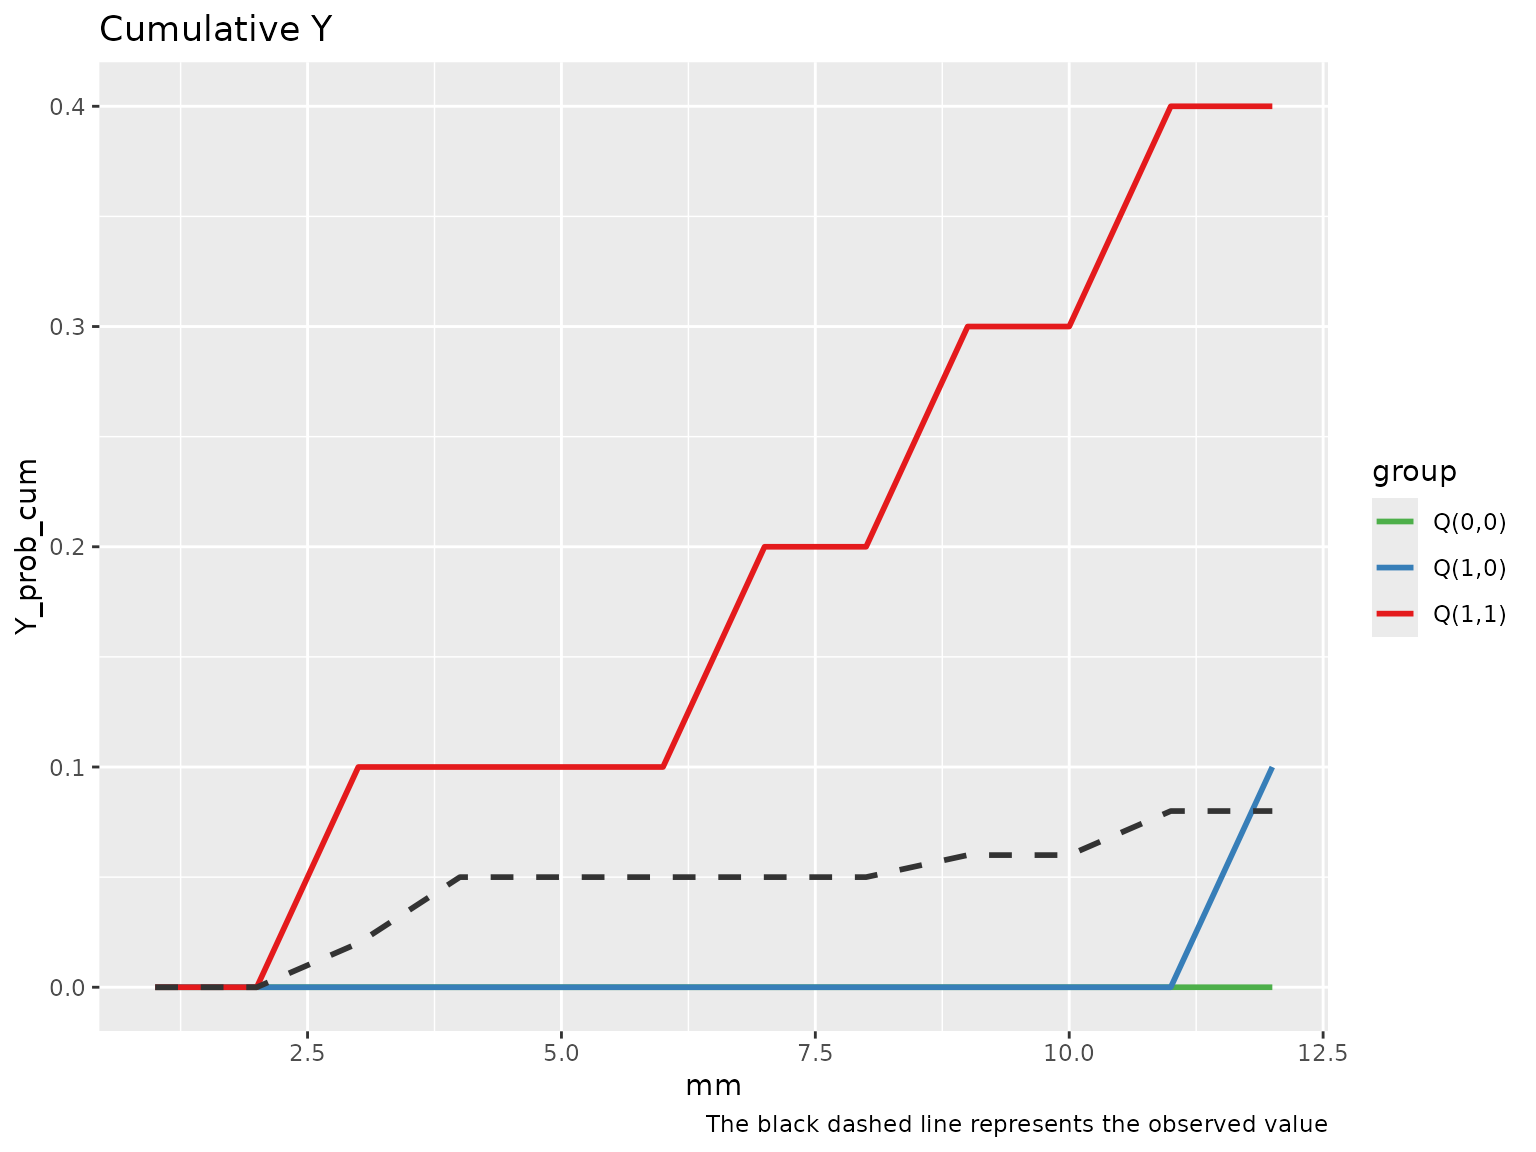
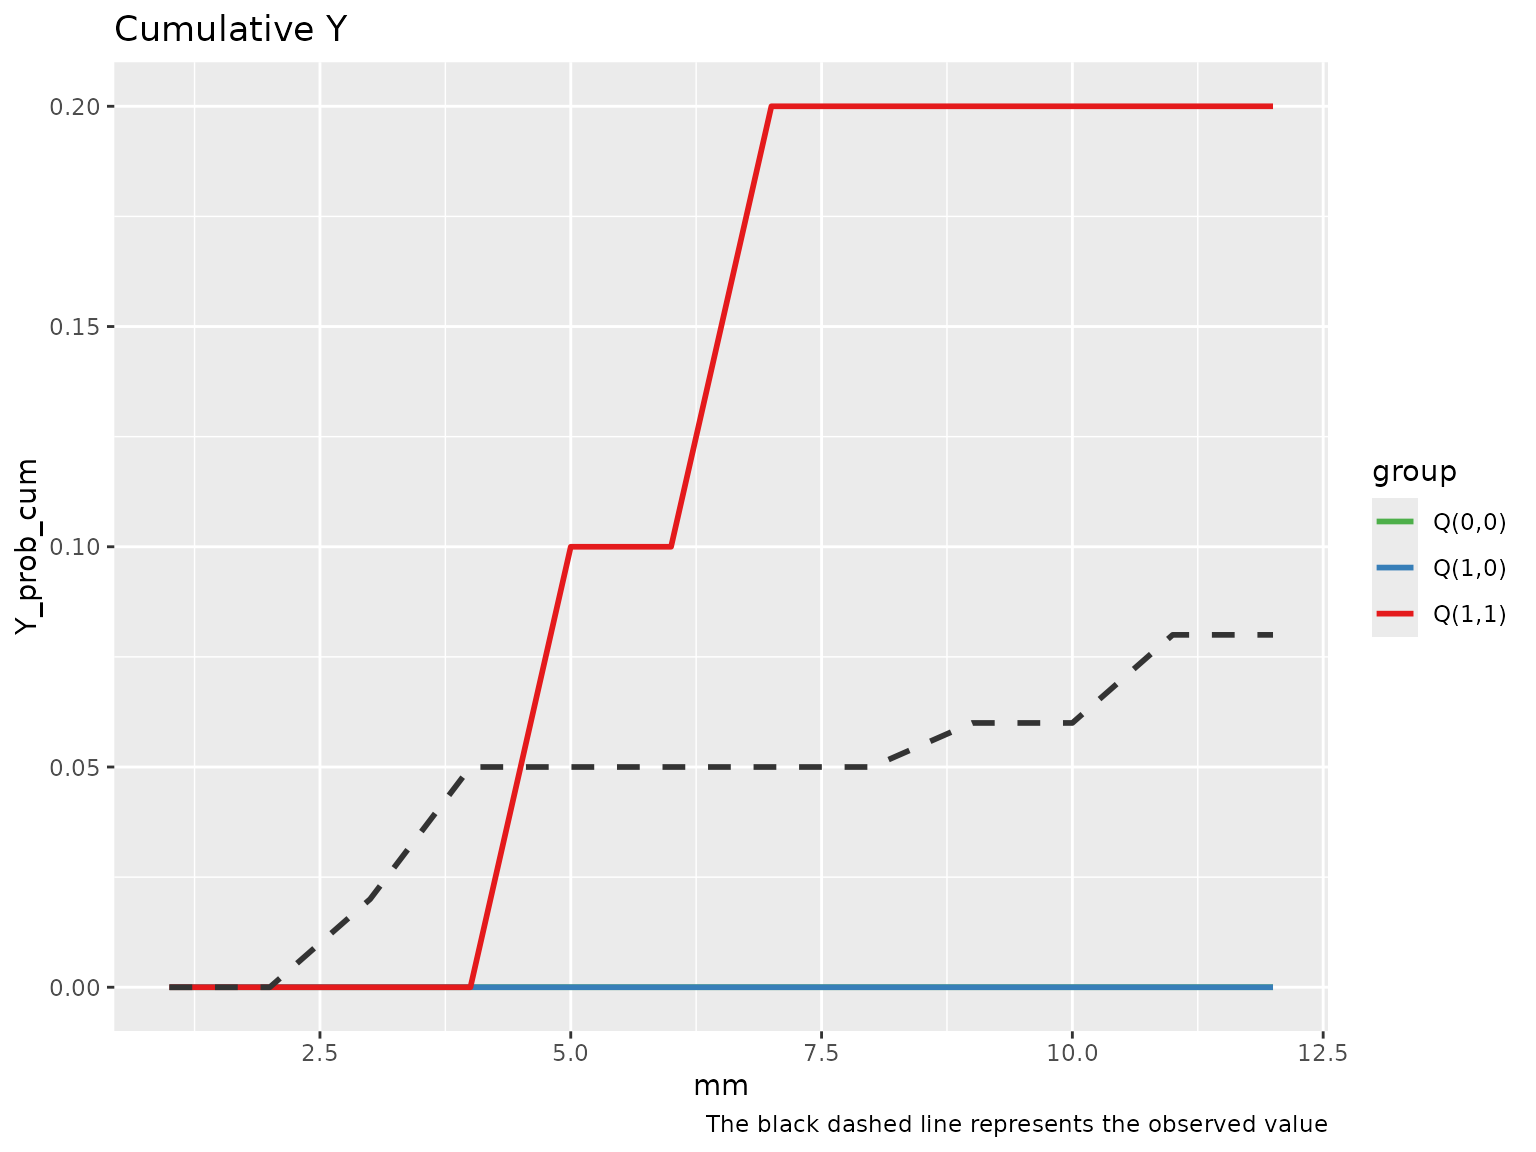
Deploying to gh-pages from @ causalepi/tvmedg@eef8c448e5479c6e9bfaff9183ada4b78893cecb 🚀

diff --git a/articles/single_mediator.html b/articles/single_mediator.html
@@ -166,14 +166,14 @@ using 1000 Monte Carlo samples.</p>
 <span>                   montecarlo <span class="op">=</span> <span class="fl">10</span>,</span>
 <span>                   boot <span class="op">=</span> <span class="cn">F</span>,</span>
 <span>                   parallel <span class="op">=</span> <span class="cn">TRUE</span><span class="op">)</span></span>
-<span><span class="co">#&gt; Q(a,a): 0.4 </span></span>
-<span><span class="co">#&gt; Q(a,a*): 0.1 </span></span>
+<span><span class="co">#&gt; Q(a,a): 0.2 </span></span>
+<span><span class="co">#&gt; Q(a,a*): 0 </span></span>
 <span><span class="co">#&gt; Q(a*,a*): 0 </span></span>
-<span><span class="co">#&gt; Indirect (rIE): 0.3 </span></span>
-<span><span class="co">#&gt; Direct (rDE): 0.1 </span></span>
-<span><span class="co">#&gt; Total (rTE): 0.4 </span></span>
-<span><span class="co">#&gt; Proportional explain: 0.75 </span></span>
-<span><span class="co">#&gt; Total time elapsed: 5.035767 secs</span></span>
+<span><span class="co">#&gt; Indirect (rIE): 0.2 </span></span>
+<span><span class="co">#&gt; Direct (rDE): 0 </span></span>
+<span><span class="co">#&gt; Total (rTE): 0.2 </span></span>
+<span><span class="co">#&gt; Proportional explain: 1 </span></span>
+<span><span class="co">#&gt; Total time elapsed: 5.539095 secs</span></span>
 <span><span class="fu"><a href="https://rdrr.io/r/parallel/makeCluster.html" class="external-link">stopCluster</a></span><span class="op">(</span><span class="va">cl</span><span class="op">)</span></span></code></pre></div>
 </div>
 <div class="section level3">
@@ -214,14 +214,14 @@ example, we run only 5 bootstrap iterations.</p>
 <span>                   nboot <span class="op">=</span> <span class="fl">5</span>,</span>
 <span>                   ci <span class="op">=</span> <span class="fl">.95</span>,</span>
 <span>                   parallel <span class="op">=</span> <span class="cn">TRUE</span><span class="op">)</span></span>
-<span><span class="co">#&gt; Q(a,a): 0.8 (0.06, 1) </span></span>
+<span><span class="co">#&gt; Q(a,a): 0.7 (0.06, 1) </span></span>
 <span><span class="co">#&gt; Q(a,a*): 0.6 (0.01, 1) </span></span>
 <span><span class="co">#&gt; Q(a*,a*): 0 (0, 0.55) </span></span>
-<span><span class="co">#&gt; Indirect (rIE): 0.2 (0, 0.64) </span></span>
+<span><span class="co">#&gt; Indirect (rIE): 0.1 (0, 0.73) </span></span>
 <span><span class="co">#&gt; Direct (rDE): 0.6 (-0.54, 1) </span></span>
-<span><span class="co">#&gt; Total (rTE): 0.8 (-0.48, 1) </span></span>
-<span><span class="co">#&gt; Proportional explain: 0.25 (0, 0.917) </span></span>
-<span><span class="co">#&gt; Total time elapsed: 20.03598 secs</span></span>
+<span><span class="co">#&gt; Total (rTE): 0.7 (-0.48, 1) </span></span>
+<span><span class="co">#&gt; Proportional explain: 0.143 (0, 0.917) </span></span>
+<span><span class="co">#&gt; Total time elapsed: 20.69806 secs</span></span>
 <span><span class="fu"><a href="https://rdrr.io/r/parallel/makeCluster.html" class="external-link">stopCluster</a></span><span class="op">(</span><span class="va">cl</span><span class="op">)</span></span></code></pre></div>
 </div>
 <div class="section level3">
